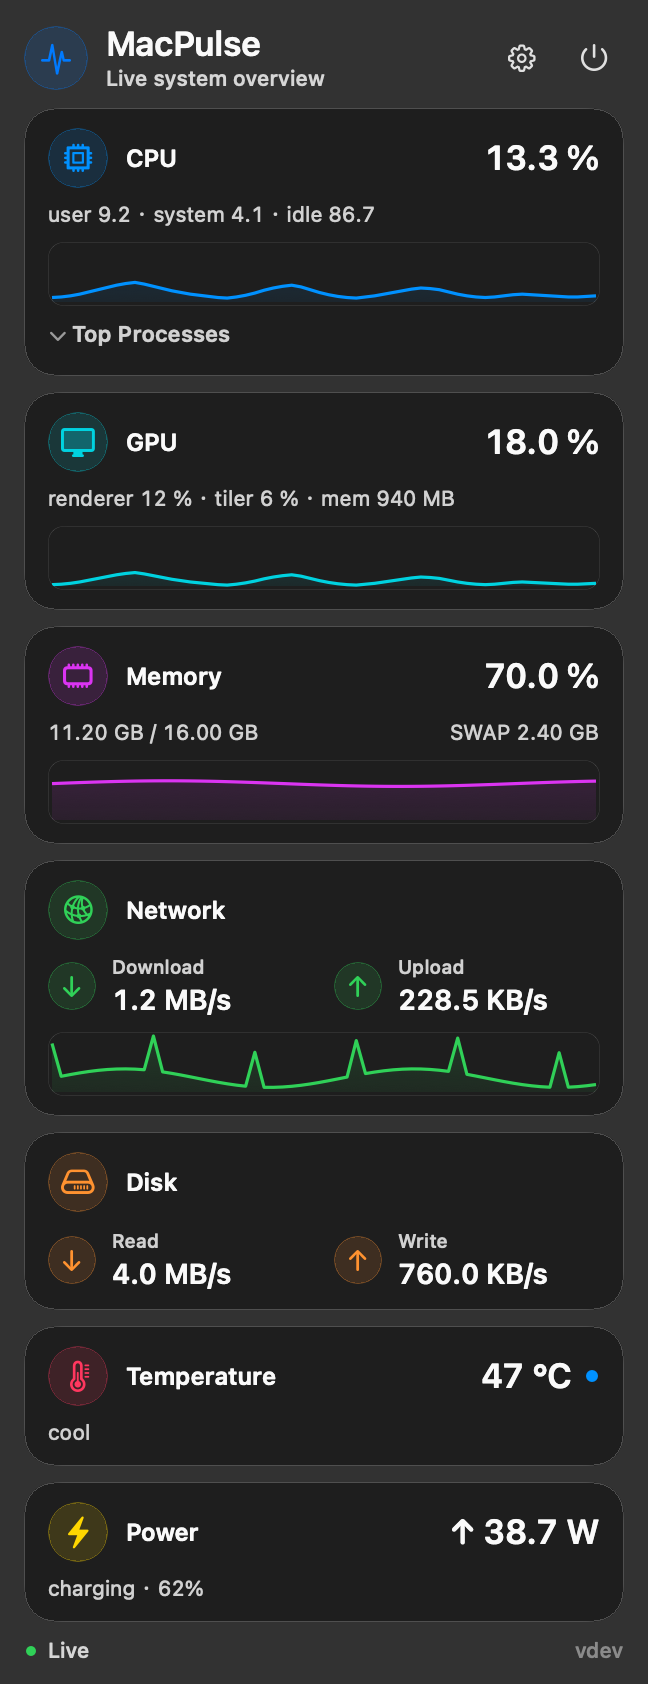
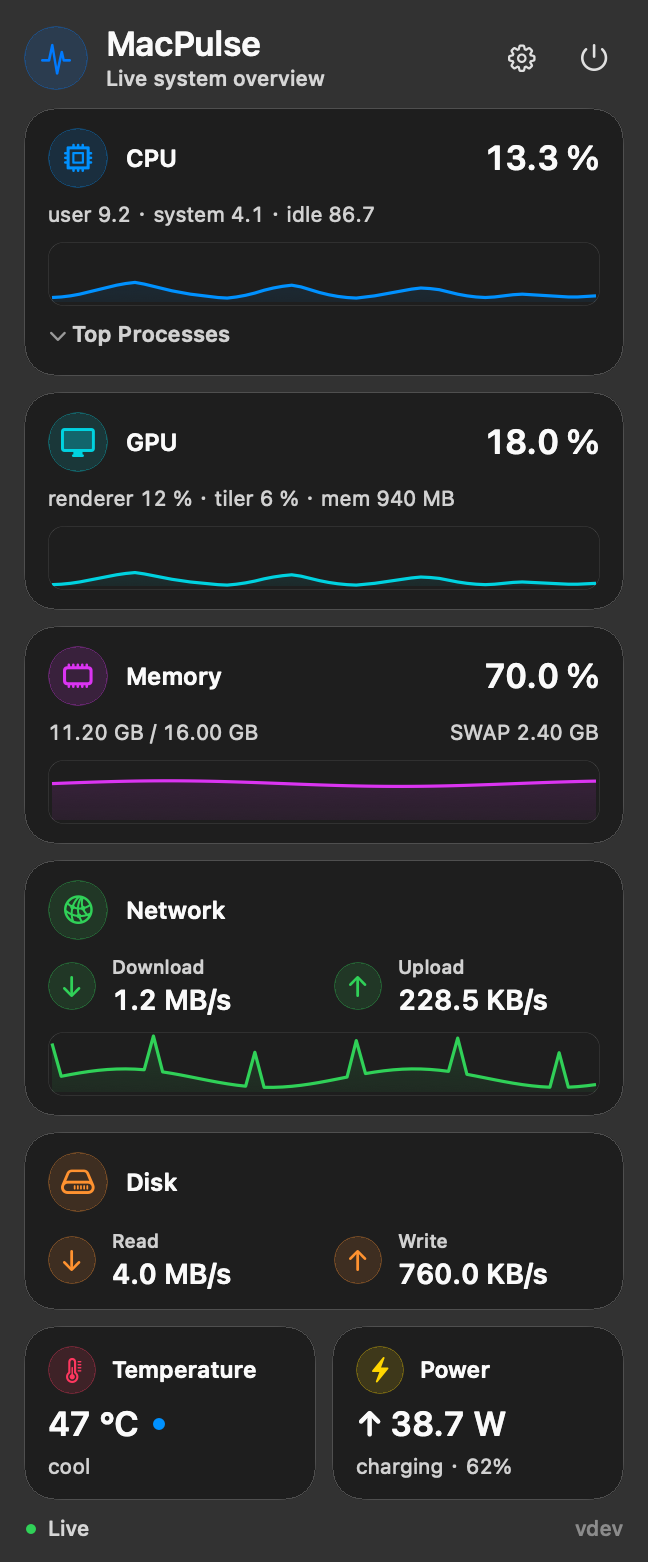
v0.12.1: pair temperature and power cards

diff --git a/Sources/MacPulse/UI/StatsPopoverController.swift b/Sources/MacPulse/UI/StatsPopoverController.swift
@@ -38,6 +38,7 @@ final class StatsPopoverController: NSViewController {
         return stack
     }()
     private var emptyStateCard: NSView?
+    private var statusPairRow: NSStackView?
 
     // CPU
     private let cpuValueLabel = StatsPopoverController.makeValueLabel()
@@ -275,25 +276,35 @@ final class StatsPopoverController: NSViewController {
         tempValueRow.spacing = 6
         tempValueRow.alignment = .centerY
 
-        let tempHeader = headerRow(metric: .temperature, valueView: tempValueRow)
-        let tempSection = stack([tempHeader, tempBreakdown], spacing: 7)
+        let tempHeader = compactHeaderRow(metric: .temperature)
+        let tempSection = stack([tempHeader, tempValueRow, tempBreakdown], spacing: 5)
         tempHeader.widthAnchor.constraint(equalTo: tempSection.widthAnchor).isActive = true
-        sections[.temperature] = popoverCard(around: tempSection)
+        let tempCard = popoverCard(around: tempSection)
+        sections[.temperature] = tempCard
 
         // Power
-        let powerHeader = headerRow(metric: .power, valueView: powerLabel)
-        let powerSection = stack([powerHeader, powerBreakdown], spacing: 7)
+        let powerHeader = compactHeaderRow(metric: .power)
+        let powerSection = stack([powerHeader, powerLabel, powerBreakdown], spacing: 5)
         powerHeader.widthAnchor.constraint(equalTo: powerSection.widthAnchor).isActive = true
-        sections[.power] = popoverCard(around: powerSection)
+        let powerCard = popoverCard(around: powerSection)
+        sections[.power] = powerCard
+
+        let statusPair = NSStackView(views: [tempCard, powerCard])
+        statusPair.orientation = .horizontal
+        statusPair.alignment = .top
+        statusPair.distribution = .fillEqually
+        statusPair.spacing = 8
+        statusPairRow = statusPair
 
         // Compose the content layer as semantic material cards. Glass remains
         // reserved for the popover surface and top-level action buttons.
         var rootSubviews: [NSView] = [header]
-        for metric in Metric.allCases {
+        for metric in Metric.allCases where metric != .temperature && metric != .power {
             if let section = sections[metric] {
                 rootSubviews.append(section)
             }
         }
+        rootSubviews.append(statusPair)
 
         let emptyCard = popoverCard(around: emptyStateView)
         emptyStateCard = emptyCard
@@ -563,6 +574,7 @@ final class StatsPopoverController: NSViewController {
         for (metric, view) in sections {
             view.isHidden = !visible.contains(metric)
         }
+        statusPairRow?.isHidden = !visible.contains(.temperature) && !visible.contains(.power)
         emptyStateCard?.isHidden = !visible.isEmpty
         adjustPreferredSize()
     }
@@ -726,6 +738,28 @@ final class StatsPopoverController: NSViewController {
         row.orientation = .horizontal
         row.alignment = .centerY
         row.spacing = 9
+        return row
+    }
+
+    private func compactHeaderRow(metric: Metric) -> NSStackView {
+        let icon = MacPulseVisualStyle.symbolBadge(
+            metric.symbolName,
+            color: MacPulseVisualStyle.accentColor(for: metric),
+            accessibilityDescription: metric.displayName,
+            size: 24
+        )
+        icon.toolTip = metric.displayName
+
+        let title = NSTextField(labelWithString: metric.displayName)
+        title.font = NSFont.systemFont(ofSize: 11.5, weight: .semibold)
+        title.textColor = .labelColor
+        title.lineBreakMode = .byTruncatingTail
+        title.setAccessibilityLabel(metric.displayName)
+
+        let row = NSStackView(views: [icon, title, NSView()])
+        row.orientation = .horizontal
+        row.alignment = .centerY
+        row.spacing = 8
         return row
     }
 
